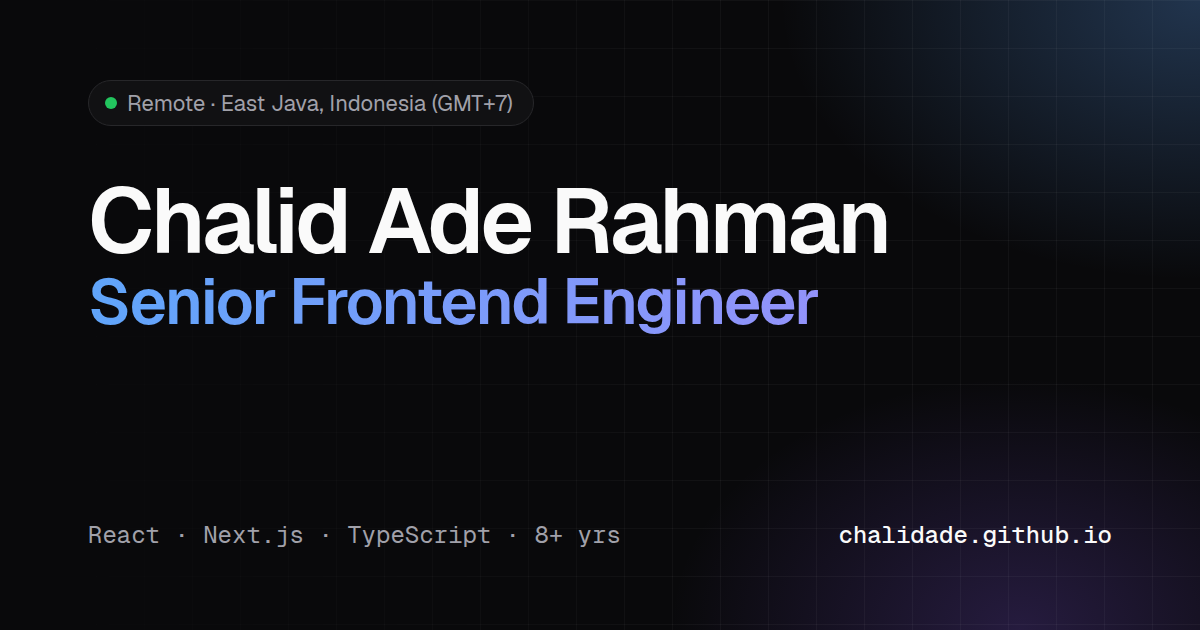
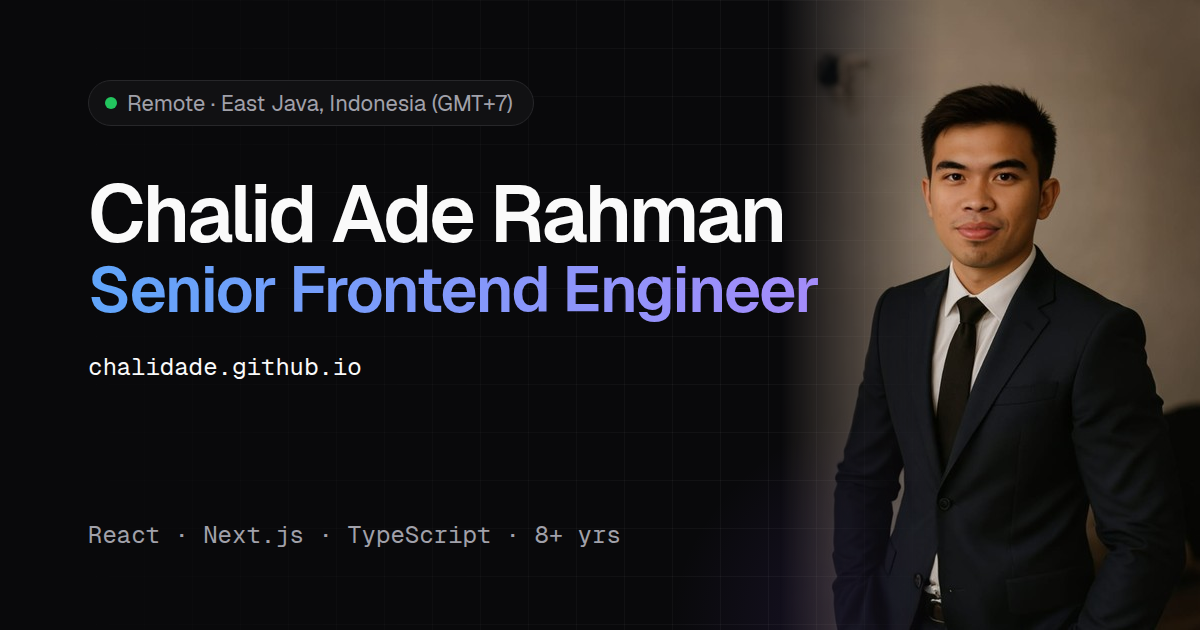
Foto di hero + OG image; fix padding samping hero di mobile

Changed region(s): [[0.0617, 0.0, 1.0, 1.0], [0.0617, 0.573, 0.3083, 0.6032]]

diff --git a/index.html b/index.html
@@ -71,12 +71,17 @@
     .icon-btn:hover { color: var(--fg); }
 
     /* ---------- hero ---------- */
-    .hero { padding: 96px 0 72px; }
+    .hero { padding-top: 96px; padding-bottom: 72px; }
     .status {
       display: inline-flex; align-items: center; gap: 8px; font-size: 13px; color: var(--muted);
       border: 1px solid var(--border); background: var(--card); border-radius: 999px; padding: 4px 12px 4px 10px;
     }
     .status i { width: 8px; height: 8px; border-radius: 50%; background: #22c55e; box-shadow: 0 0 0 3px color-mix(in srgb, #22c55e 25%, transparent); }
+    .hero-id { display: flex; align-items: center; gap: 16px; flex-wrap: wrap; }
+    .avatar {
+      width: 72px; height: 72px; border-radius: 50%; object-fit: cover; display: block;
+      border: 1px solid var(--border); box-shadow: 0 0 0 4px var(--card);
+    }
     .hero h1 {
       font-size: clamp(40px, 7.5vw, 68px); line-height: 1.05; letter-spacing: -.035em;
       font-weight: 600; margin: 24px 0 20px;
@@ -232,7 +237,7 @@
     }
     @media (max-width: 720px) {
       .nav-links a { display: none; }
-      .hero { padding: 64px 0 48px; }
+      .hero { padding-top: 64px; padding-bottom: 48px; }
       .stats { grid-template-columns: 1fr 1fr; }
       .stat:nth-child(3) { border-left: 0; }
       .stat:nth-child(n+3) { border-top: 1px solid var(--border); }
@@ -265,7 +270,10 @@
 
   <main>
     <div class="wrap hero">
-      <div class="status"><i></i> Remote · East Java, Indonesia (GMT+7)</div>
+      <div class="hero-id">
+        <img class="avatar" src="avatar.jpg" width="72" height="72" alt="Chalid Ade Rahman">
+        <div class="status"><i></i> Remote · East Java, Indonesia (GMT+7)</div>
+      </div>
       <h1>Chalid Ade Rahman.<br><span class="grad">Senior Frontend Engineer.</span></h1>
       <p class="lead">
         <b>8+ years</b> building production web apps for global teams across <b>EdTech</b>,

diff --git a/_og/og.html b/_og/og.html
@@ -11,13 +11,18 @@ body::after{content:"";position:absolute;inset:0;background-image:linear-gradien
 .c{position:relative;z-index:1;height:100%;display:flex;flex-direction:column}
 .pill{display:inline-flex;align-items:center;gap:10px;font-size:22px;color:#a1a1aa;border:1px solid #27272a;background:#111113;border-radius:999px;padding:8px 20px 8px 16px;align-self:flex-start}
 .pill i{width:12px;height:12px;border-radius:50%;background:#22c55e}
-h1{font-size:92px;font-weight:600;letter-spacing:-.035em;line-height:1.02;margin-top:48px}
+h1{font-size:80px;font-weight:600;letter-spacing:-.035em;line-height:1.02;margin-top:48px}
 h2{font-size:64px;font-weight:600;letter-spacing:-.03em;line-height:1.05;background:linear-gradient(90deg,#60a5fa,#a78bfa);-webkit-background-clip:text;color:transparent}
 .stack{margin-top:auto;display:flex;justify-content:space-between;align-items:end;font-family:"Geist Mono",monospace;font-size:24px;color:#a1a1aa}
 .stack b{color:#fafafa;font-weight:500}
-</style></head><body><div class="c">
+.photo{position:absolute;top:0;right:0;width:420px;height:630px;z-index:1;
+ background:url(photo.jpg) center/cover;
+ -webkit-mask-image:linear-gradient(90deg,transparent 0,#000 38%);mask-image:linear-gradient(90deg,transparent 0,#000 38%)}
+.c{max-width:760px}
+</style></head><body><div class="photo"></div><div class="c">
 <div class="pill"><i></i>Remote · East Java, Indonesia (GMT+7)</div>
 <h1>Chalid Ade Rahman</h1>
 <h2>Senior Frontend Engineer</h2>
-<div class="stack"><span>React · Next.js · TypeScript · 8+ yrs</span><b>chalidade.github.io</b></div>
+<div style="margin-top:28px;font-family:'Geist Mono',monospace;font-size:24px;color:#fafafa">chalidade.github.io</div>
+<div class="stack"><span>React · Next.js · TypeScript · 8+ yrs</span></div>
 </div></body></html>
